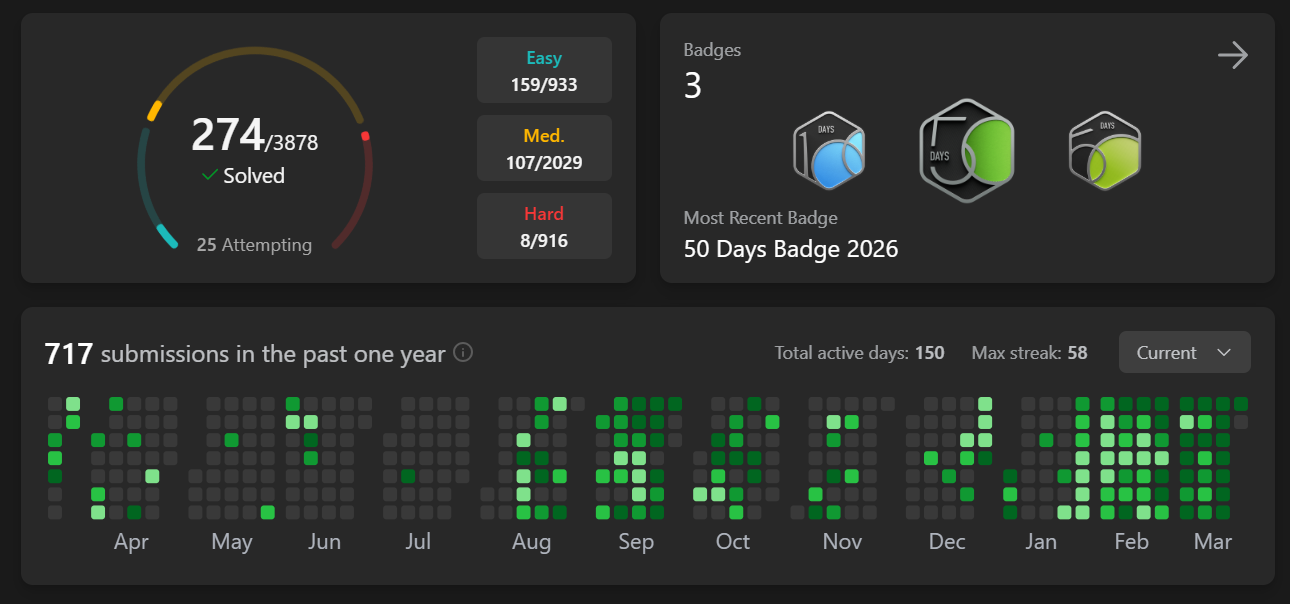
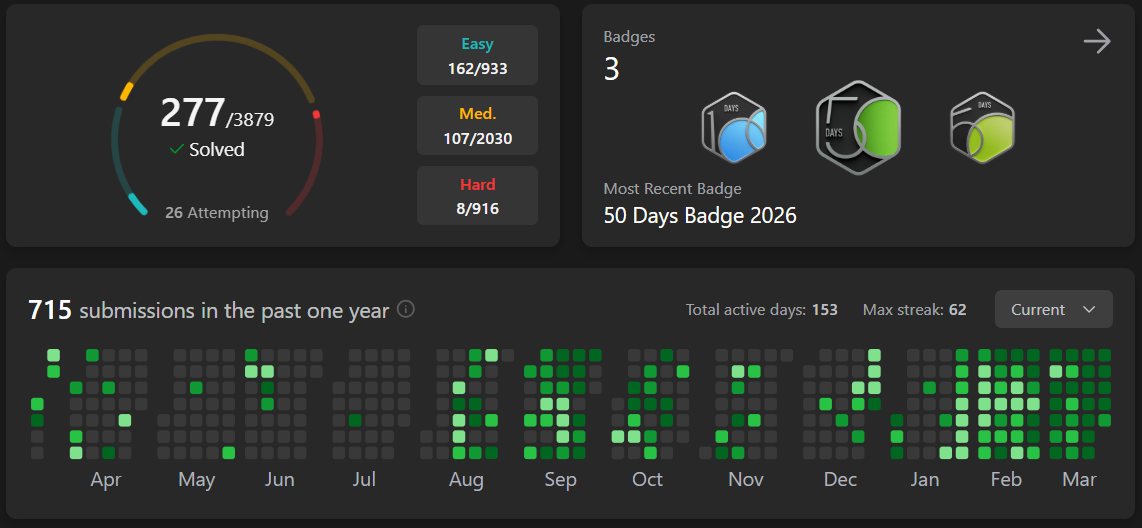
My portfolio code and all its dependencies

diff --git a/Index.html b/Index.html
@@ -3,6 +3,7 @@
 <head>
 <meta charset="UTF-8">
 <meta name="viewport" content="width=device-width, initial-scale=1.0">
+<link rel="icon" type="image/png" href="user.png">
 <link rel="stylesheet" href="https://cdnjs.cloudflare.com/ajax/libs/font-awesome/6.5.0/css/all.min.css">
 <link rel="preconnect" href="https://fonts.googleapis.com">
 <link rel="preconnect" href="https://fonts.gstatic.com" crossorigin>
@@ -1272,7 +1273,7 @@ Minor Projects
 <div class="project-body">
 <div class="project-header">
 <h2>Loan Approval Prediction Model</h2>
-<span class="date">🗓 May 2024</span>
+<span class="date">🗓 Nov 2025</span>
 </div>
 <p>
 Interactive browser-based ML application that predicts loan approval.
@@ -1304,7 +1305,7 @@ Interactive browser-based ML application that predicts loan approval.
 <div class="project-body">
 <div class="project-header">
 <h2>Secure File Vault</h2>
-<span class="date">🗓 Feb 2025</span>
+<span class="date">🗓 July 2025</span>
 </div>
 <p>
 Java desktop application to securely encrypt and decrypt files.
@@ -1323,35 +1324,6 @@ Java desktop application to securely encrypt and decrypt files.
 </div>
 </div>
 </div>
-<!-- MINOR PROJECT 1 -->
-<div class="project-card minor">
-<div class="project-img">
-<img src="OS_project.jpeg">
-<div class="buttons">
-<a href="https://github.com/Praneet2003/Real_Time_Process_Monitoring_Dashboard" target="_blank">View Code</a>
-<!-- <a href="#">Live Demo</a> -->
-</div>
-</div>
-<div class="project-body">
-<div class="project-header">
-<h2>Real time Process Monitoring dashboard</h2>
-<span class="date">2024</span>
-</div>
-<p>Built a real-time system monitoring dashboard to visualize CPU, memory, disk usage, and active processes using psutil.</p>
-<h3>Key Features</h3>
-<ul>
-<li>Visualized CPU, memory, disk, and process data.</li>
-<li>Ensured smooth and efficient updates.</li>
-</ul>
-<div class="tech">
-<span>Python</span>
-<span>Psutil</span>
-<span>Tkinter</span>
-<span>Git & GitHub</span>
-</div>
-</div>
-</div>
-<!-- MINOR PROJECT 2 -->
 <div class="project-card minor">
 <div class="project-img">
 <img src="Air_pollution.png">
@@ -1363,7 +1335,7 @@ Java desktop application to securely encrypt and decrypt files.
 <div class="project-body">
 <div class="project-header">
 <h2>Global Air Pollution dashboard</h2>
-<span class="date">2024</span>
+<span class="date">🗓 Nov 2025</span>
 </div>
 <p>Built air pollution dashboard (PM2.5, PM10, NO₂).
 Added map-based pollutant visualization.
@@ -1380,7 +1352,35 @@ Enabled regional data insights.</p>
 </div>
 </div>
 </div>
+<!-- MINOR PROJECT 1 -->
+<div class="project-card minor">
+<div class="project-img">
+<img src="OS_project.jpeg">
+<div class="buttons">
+<a href="https://github.com/Praneet2003/Real_Time_Process_Monitoring_Dashboard" target="_blank">View Code</a>
+<!-- <a href="#">Live Demo</a> -->
 </div>
+</div>
+<div class="project-body">
+<div class="project-header">
+<h2>Real time Process Monitoring dashboard</h2>
+<span class="date">🗓 Arp 2025</span>
+</div>
+<p>Built a real-time system monitoring dashboard to visualize CPU, memory, disk usage, and active processes using psutil.</p>
+<h3>Key Features</h3>
+<ul>
+<li>Visualized CPU, memory, disk, and process data.</li>
+<li>Ensured smooth and efficient updates.</li>
+</ul>
+<div class="tech">
+<span>Python</span>
+<span>Psutil</span>
+<span>Tkinter</span>
+<span>Git & GitHub</span>
+</div>
+</div>
+</div>
+<!-- MINOR PROJECT 2 -->
 </section>
 <hr>
 <section id="codingProfiles" class = "secondSection">
@@ -1401,7 +1401,7 @@ Enabled regional data insights.</p>
 <h2>LeetCode</h2>
 </div>
 <p>Rank: 5,03,541</p>
-<p>Problems Solved: 270+</p>
+<p>Problems Solved: 275+</p>
 </div>
 </div>
 <!-- Codeforces -->
@@ -1454,6 +1454,22 @@ Enabled regional data insights.</p>
     <!-- Card 1 -->
     <div class="project-card">
         <div class="project-img">
+            <img src="Java_maestro.png">
+            <div class="buttons">
+                <a href="https://media.licdn.com/dms/document/media/v2/D561FAQEP6uj9AfDVFQ/feedshare-document-pdf-analyzed/B56ZjnNupXH8Ac-/0/1756225799112?e=1775088000&v=beta&t=WfexKxnWfRhbNu4DPIj9cgUkkkmfFVoREkz_YrgSyrU" target="_blank">View</a>
+            </div>
+        </div>
+
+        <div class="project-body">
+            <div class="project-header">
+                <h2>Java Certification</h2>
+            </div>
+            <p>LPU Skill Development</p>
+            <p>July 2025</p>
+        </div>
+    </div>
+    <div class="project-card">
+        <div class="project-img">
             <img src="CCL.jpeg">
             <div class="buttons">
                 <a href="https://drive.google.com/file/d/1P6u1QA6tvT-8DuiJgihFviJ6uJbgixMY/view?usp=drive_link" target="_blank">View</a>
@@ -1464,8 +1480,8 @@ Enabled regional data insights.</p>
             <div class="project-header">
                 <h2>CCL Internship</h2>
             </div>
-            <p>Coursera</p>
-            <p>November 2024</p>
+            <p>Central Coalfields Ltd</p>
+            <p>June 2025</p>
         </div>
     </div>
 
@@ -1483,7 +1499,7 @@ Enabled regional data insights.</p>
                 <h2>Deep Learning</h2>
             </div>
             <p>NPTEL</p>
-            <p>November 2024</p>
+            <p>April 2025</p>
         </div>
     </div>
 
@@ -1501,27 +1517,12 @@ Enabled regional data insights.</p>
                 <h2>AWS Cloud</h2>
             </div>
             <p>ASD Kolkata</p>
-            <p>October 2024</p>
+            <p>August 2024</p>
         </div>
     </div>
 
     <!-- Card 4 -->
-    <div class="project-card">
-        <div class="project-img">
-            <img src="Java_maestro.png">
-            <div class="buttons">
-                <a href="https://media.licdn.com/dms/document/media/v2/D561FAQEP6uj9AfDVFQ/feedshare-document-pdf-analyzed/B56ZjnNupXH8Ac-/0/1756225799112?e=1775088000&v=beta&t=WfexKxnWfRhbNu4DPIj9cgUkkkmfFVoREkz_YrgSyrU" target="_blank">View</a>
-            </div>
-        </div>
-
-        <div class="project-body">
-            <div class="project-header">
-                <h2>Java Certification</h2>
-            </div>
-            <p>Board Infinity</p>
-            <p>June 2024</p>
-        </div>
-    </div>
+    
 
 </div>
 </section>
